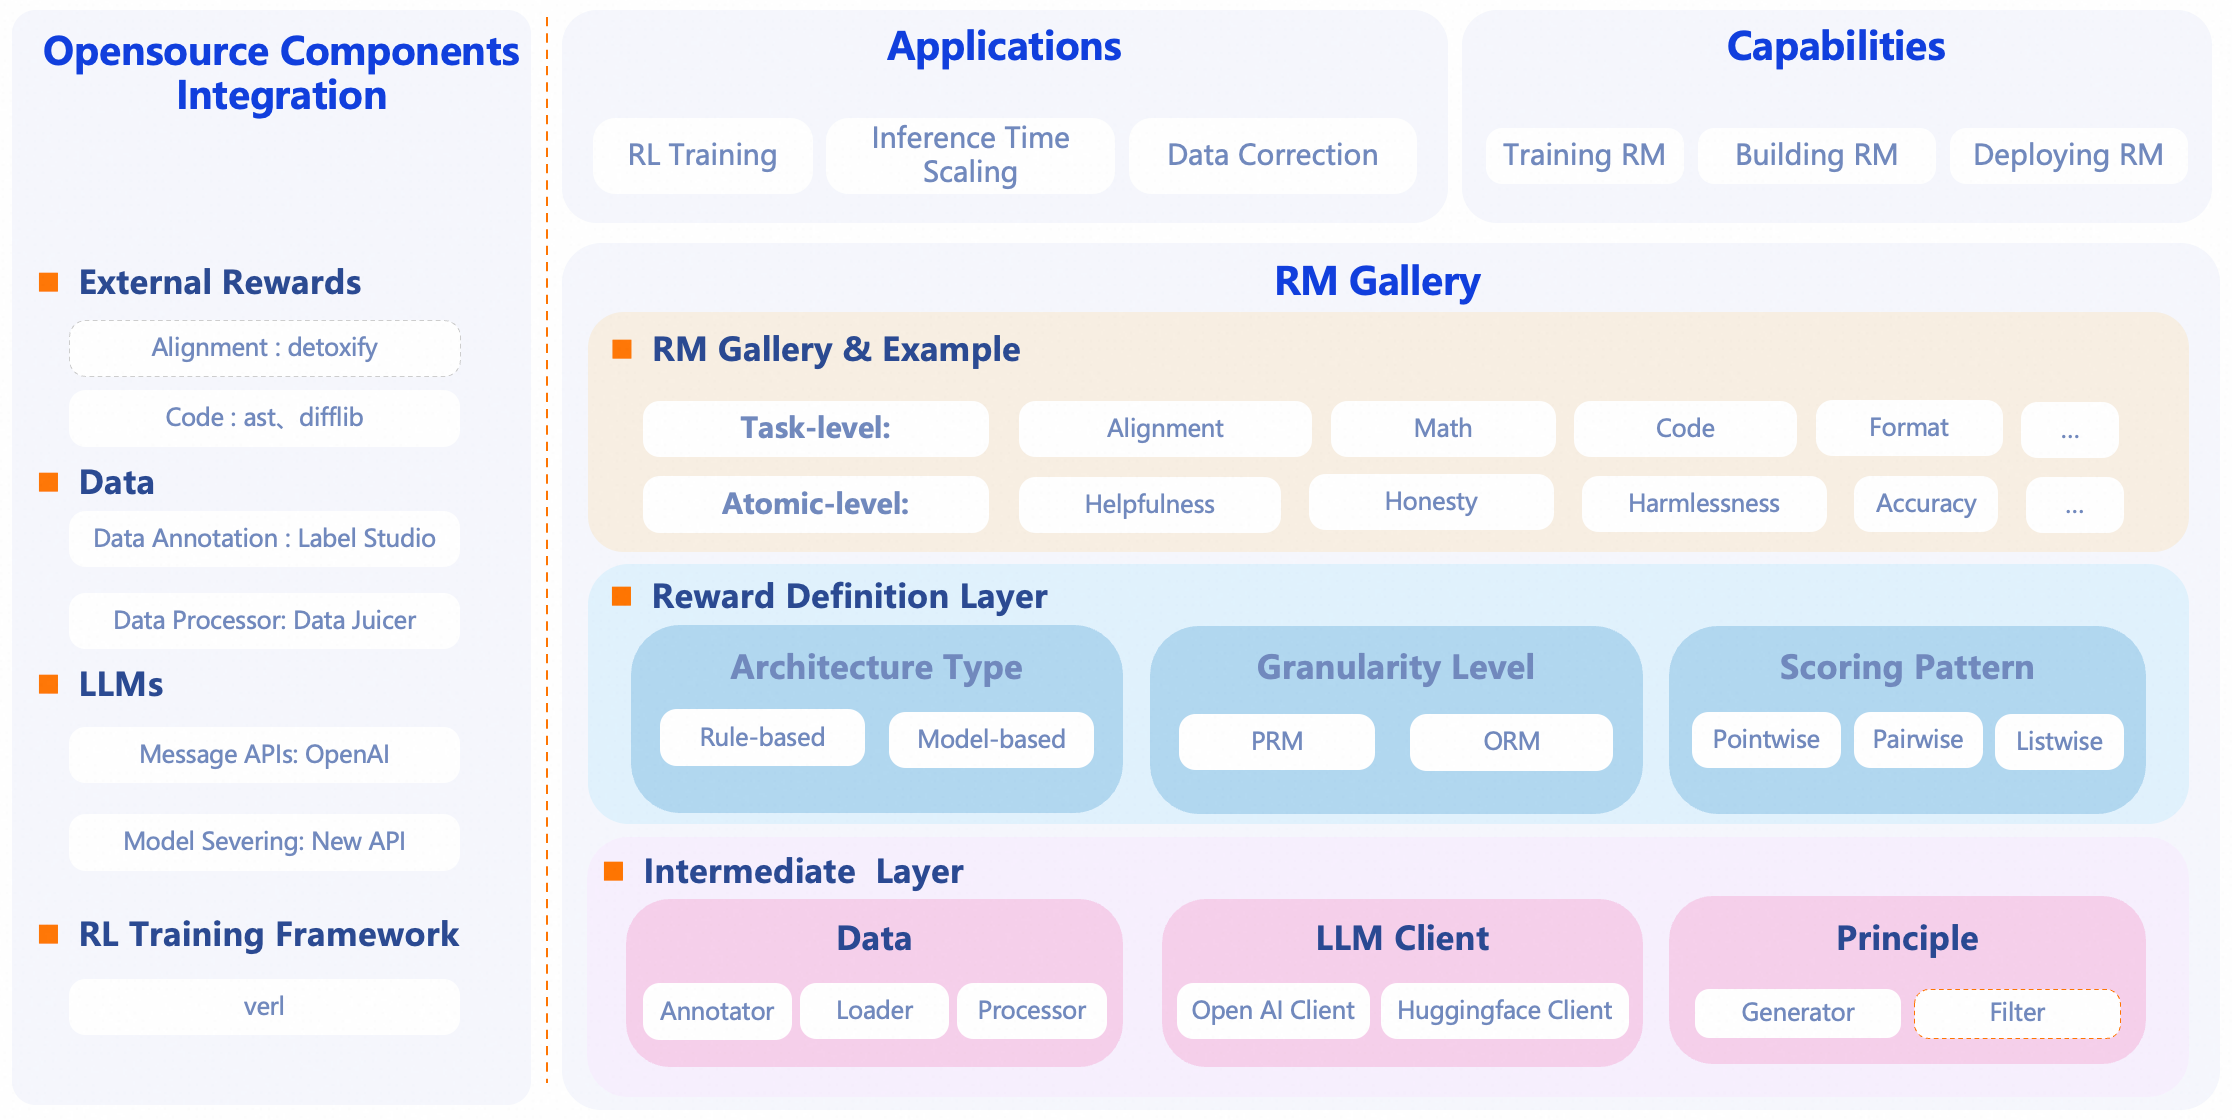
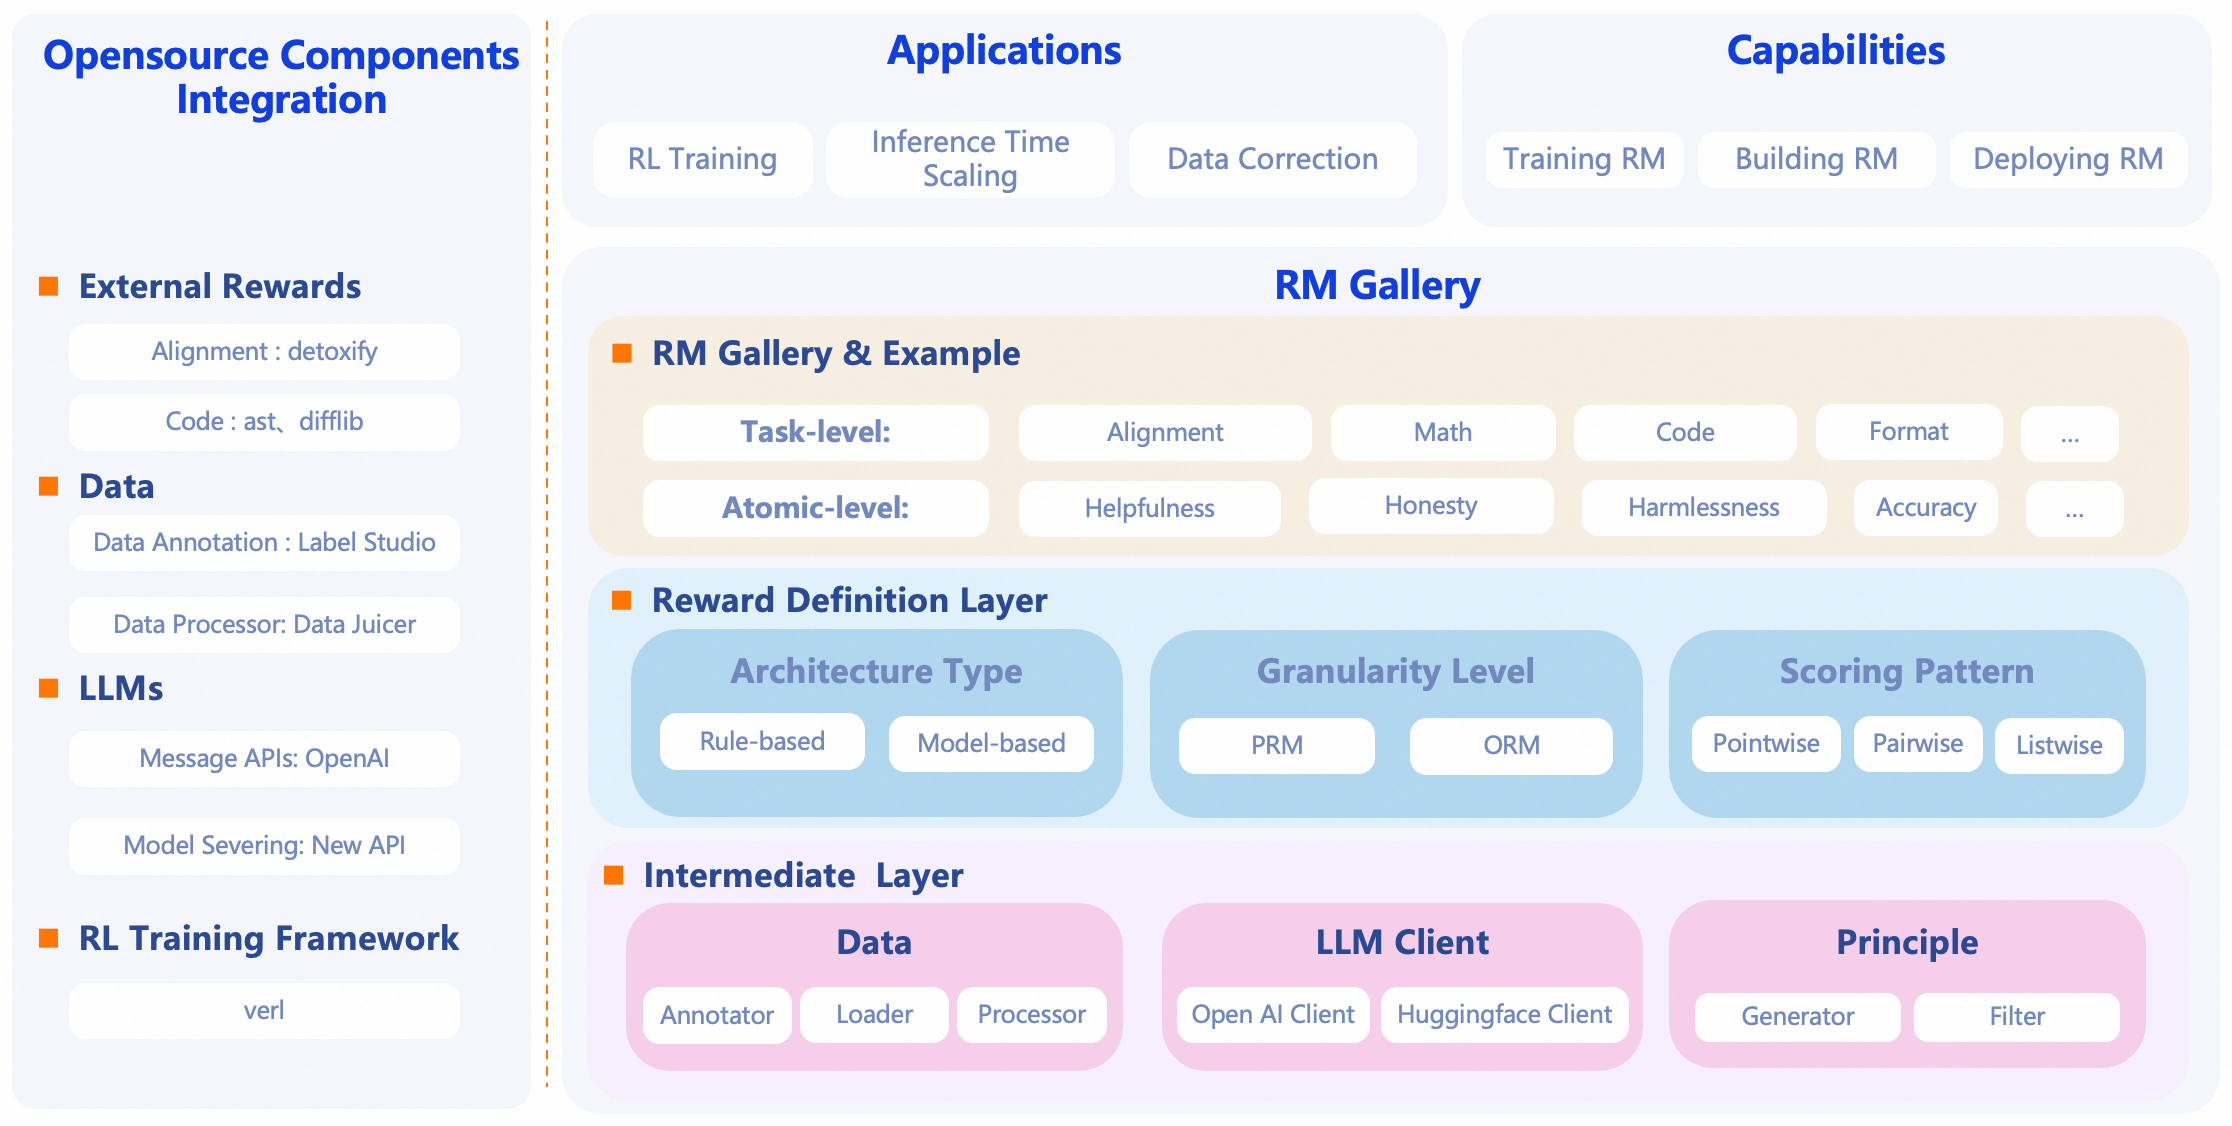
[update] update docs * [update] update docs
* [update] update docs

diff --git a/README.md b/README.md
@@ -16,7 +16,7 @@ English | [**中文**](./README_ZH.md)
 
 ## 🌟 Why RM-Gallery?
 
-RM-Gallery is a one-stop platform for training, building and operationalizing reward models. It provides a comprehensive solution for implementing reward models at both task-level and component-level, with high-throughput and fault-tolerant capabilities.
+RM-Gallery is a one-stop platform for training, building and applying reward models. It provides a comprehensive solution for implementing reward models at both task-level and component-level, with high-throughput and fault-tolerant capabilities.
 
 <p align="center">
  <img src="./docs/images/framework.png" alt="Framework" width="75%">
@@ -32,7 +32,7 @@ RM-Gallery is a one-stop platform for training, building and operationalizing re
 
 - **Principle-Critic-Score Paradigm**: Adopts the Principle+Critic+Score-based reasoning Reward Model  paradigm, offering best practices to help users generate principles with limited preference data.
 
-### Operationalizing RM
+### Applying RM
 
 - **Multiple Usage Scenarios**: Covers multiple Reward Model (RM) usage scenarios with detailed best practices, including Training with Rewards (e.g., post-training), Inference with Rewards (e.g., Best-of-N，refinement)
 
